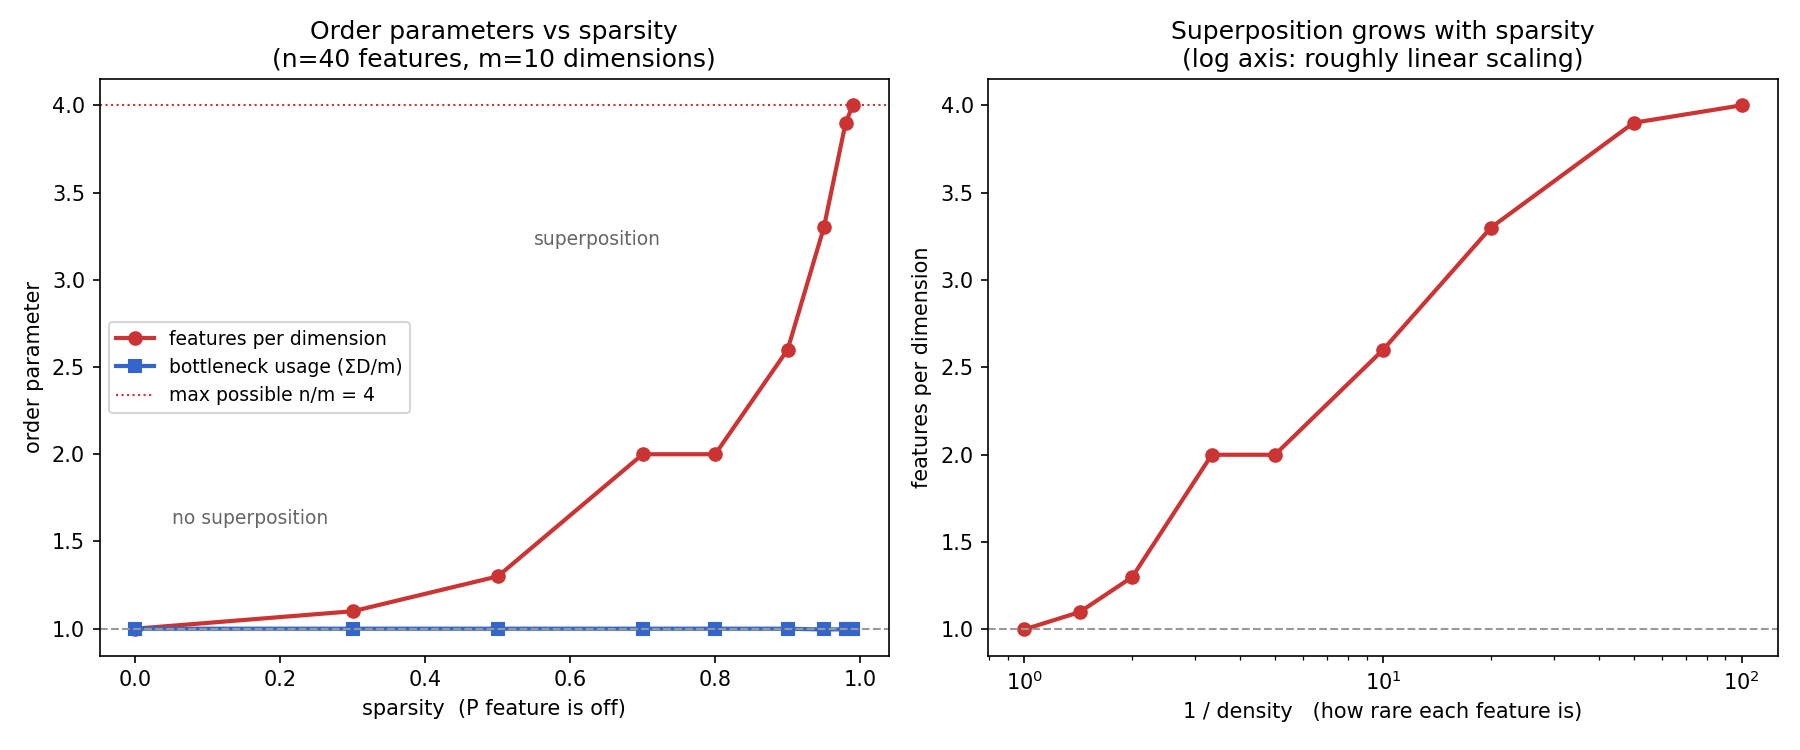
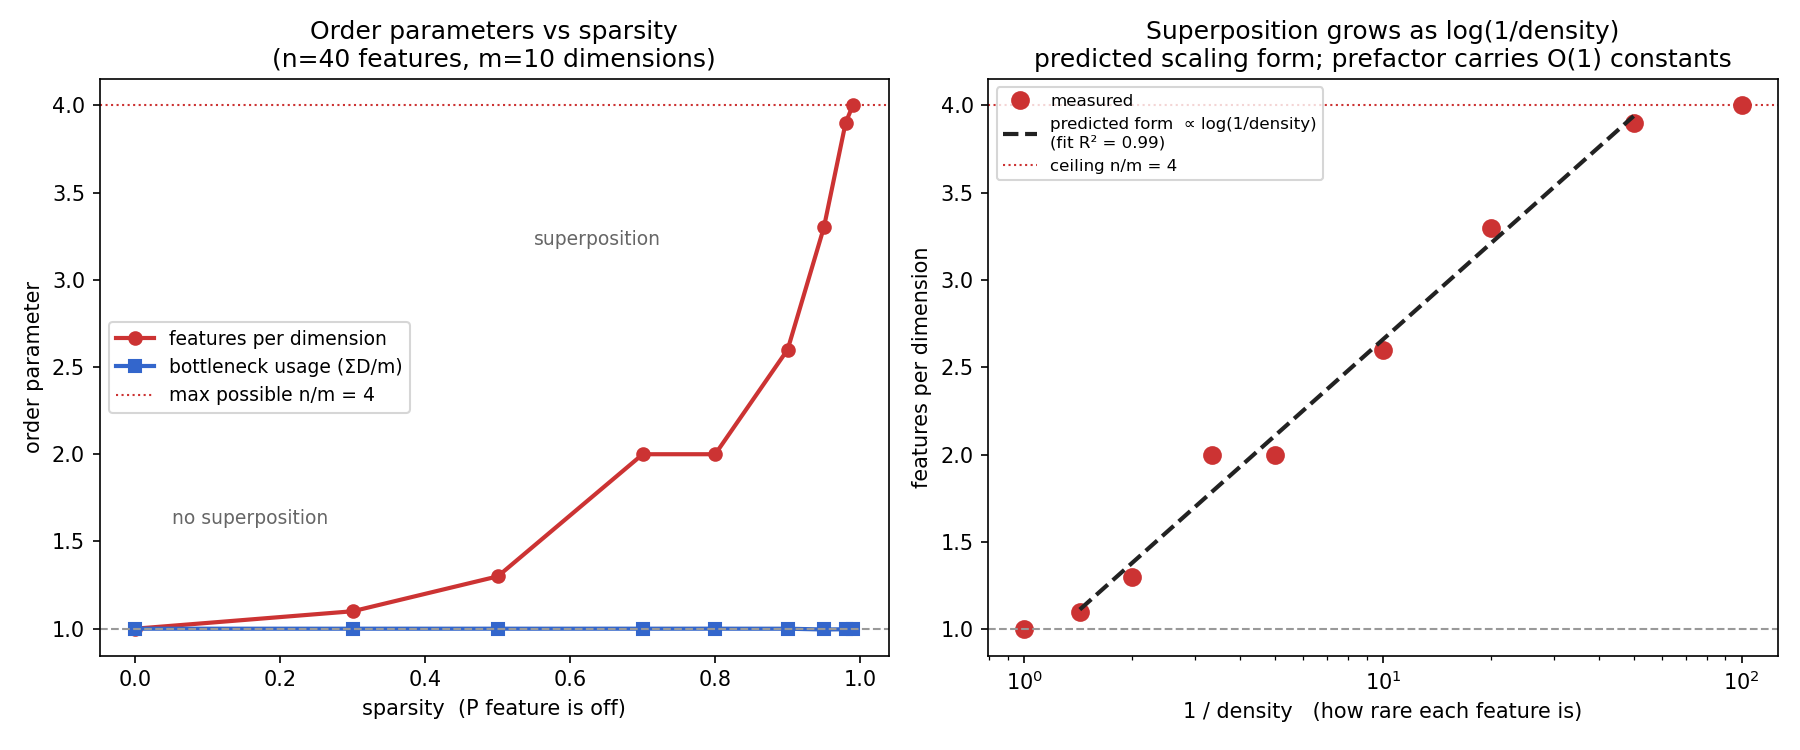
Restructure README, add math derivations and analytic scaling overlay
- Lead with paper credit (Elhage et al. 2022) and an explicit scope
- Move motivation ahead of the math; dedupe the physics-lens framing
- Add formal model/loss equations and order-parameter definitions
- Add Appendix: polygon identities, phase-boundary and log-linear
  derivations
- Calibrate originality claims to credit the paper's phase-change framing
- Overlay the predicted log-linear scaling on the phase diagram (R^2=0.99)

diff --git a/experiments/02_phase_diagram.py b/experiments/02_phase_diagram.py
@@ -96,12 +96,43 @@ def main() -> None:
         "superposition", xy=(0.9, 3.0), xytext=(0.55, 3.2), fontsize=9, color="0.4"
     )
 
-    ax2.plot(1.0 / density, feat_per_dim, "o-", color="#c33", lw=2)
+    # Analytic prediction: a feature earns a (superposed) slot once its importance
+    # clears a threshold that shrinks with density. With geometric importance decay
+    # this makes the stored-feature count grow LINEARLY IN log(1/density). We test
+    # that predicted *form*; its slope carries O(1) constants we do not fix.
+    fpd_arr = np.array(feat_per_dim)
+    inv_density = 1.0 / density
+    x = np.log(inv_density)
+    ceiling = N_FEATURES / N_HIDDEN
+    rising = (fpd_arr > 1.05) & (fpd_arr < ceiling - 0.05)  # the superposition regime
+
+    ax2.plot(inv_density, fpd_arr, "o", color="#c33", ms=8, label="measured")
+    if rising.sum() >= 2:
+        slope, intercept = np.polyfit(x[rising], fpd_arr[rising], 1)
+        pred = slope * x[rising] + intercept
+        ss_res = float(np.sum((fpd_arr[rising] - pred) ** 2))
+        ss_tot = float(np.sum((fpd_arr[rising] - fpd_arr[rising].mean()) ** 2))
+        r2 = 1 - ss_res / ss_tot if ss_tot > 0 else float("nan")
+        xline = np.linspace(x[rising].min(), x[rising].max(), 50)
+        ax2.plot(
+            np.exp(xline), slope * xline + intercept, "--", color="#222", lw=2,
+            label=f"predicted form  ∝ log(1/density)\n(fit R² = {r2:.2f})",
+        )
+        slope_theory = 1.0 / (N_HIDDEN * np.log(1.0 / IMPORTANCE))
+        log(
+            f"right-panel: fitted slope={slope:.3f}/e-fold (R²={r2:.3f}); "
+            f"crude theory slope={slope_theory:.3f} — same order, O(1) constants unfixed"
+        )
     ax2.set_xscale("log")
+    ax2.axhline(ceiling, ls=":", color="#c33", lw=1, label="ceiling n/m = 4")
+    ax2.axhline(1.0, ls="--", color="0.6", lw=1)
     ax2.set_xlabel("1 / density   (how rare each feature is)")
     ax2.set_ylabel("features per dimension")
-    ax2.set_title("Superposition grows with sparsity\n(log axis: roughly linear scaling)")
-    ax2.axhline(1.0, ls="--", color="0.6", lw=1)
+    ax2.set_title(
+        "Superposition grows as log(1/density)\n"
+        "predicted scaling form; prefactor carries O(1) constants"
+    )
+    ax2.legend(fontsize=8, loc="upper left")
 
     fig.tight_layout()
     out = figure_path("02_phase_diagram.png")

diff --git a/README.md b/README.md
@@ -1,12 +1,25 @@
 # A Toy Model of Superposition — a statistical-physics view
 
-**How can a neural network remember more things than it has room for? It cheats — the same way atoms, magnets, and packed spheres do.**
+**How can a neural network remember more things (features) than it has room (neurons, dimensions) for? By superposition - the same way packed spheres do.**
 
 This repository builds the smallest neural network that exhibits *superposition*, reproduces the key results from scratch, and then analyses them with the tools of statistical physics: order parameters, phase transitions, and energy minimisation. Everything runs on a laptop CPU in a few minutes.
 
+### Based on Anthropic's "Toy Models of Superposition"
+
+Everything here is built on **Elhage et al. (2022), *Toy Models of Superposition*** (Transformer Circuits Thread, <https://transformer-circuits.pub/2022/toy_model/index.html>). The model, the feature-dimensionality metric, the quantized polytope geometry, and the phase-change picture all originate in that work. This repository is an independent reimplementation of its core, re-examined through a statistical-mechanics lens.
+
+### Scope
+
+A compact, self-contained reproduction of the paper's *core* results plus an explicit statistical-physics analysis — deliberately narrow, not a full replication.
+
+- **Reproduced from scratch** — the ReLU output model; the emergence of superposition with sparsity ($n=5$, $m=2 \to$ pentagon); the feature-dimensionality metric and its quantized values; a sparsity-driven phase diagram.
+- **Added, extending the paper's own framing** — an explicit packing/frustration *energy* whose minimum the trained network attains exactly (a Thomson-problem reading of the geometry), and an order-parameter presentation of the transition with a derived scaling form (Section 5, Appendix).
+- **Out of scope** — results that are in the paper but not attempted here: the linear-model contrast, computation-in-superposition, correlated/anti-correlated features, higher-dimensional polytopes, learning dynamics, and the connection to real trained networks.
+
+
 ---
 
-## 1. The one-paragraph version (no background assumed)
+## 1. Abstract
 
 A neural network stores information inside a fixed number of internal "slots" (think of them as the axes of a coordinate system). Common sense says it can store at most one piece of information per slot. **Superposition** is the surprising trick where a network stores *many more* pieces of information than it has slots, by laying them down as *overlapping* directions that share the slots. This works only because the information is **sparse** — most pieces are "silent" at any given moment, so the overlaps rarely cause confusion. Below we watch a network discover this trick on its own, and we show that the shapes it settles into are exactly the shapes a physicist would predict from an energy-minimization argument.
 
@@ -19,7 +32,13 @@ A neural network stores information inside a fixed number of internal "slots" (t
 
 ---
 
-## 2. Why this is really a physics problem
+## 2. Motivation — why superposition is worth understanding
+
+Modern language models almost certainly rely on superposition heavily: they represent far more concepts than they have neurons. That makes it a central obstacle for **interpretability** (the effort to understand what a network has actually learned), because a single neuron ends up entangled in many unrelated concepts. A toy system small enough to solve completely is the natural place to build intuition before tackling it in real networks.
+
+---
+
+## 3. Why this is really a physics problem
 
 If you must place *n* feature directions in only *m* dimensions, they cannot all be mutually perpendicular — there isn't enough room. So they interfere. Each pair of features that points in similar directions pays a penalty (they get confused for one another). The network wants to arrange the directions to make the *total* penalty as small as possible.
 
@@ -30,28 +49,35 @@ That is a **frustration problem**, and physicists have studied its cousins for o
 
 And because we have a control knob (sparsity), we can ask the question at the heart of statistical mechanics: **does the system change phase as we turn the knob?** It does — sharply — and the ordered phases are regular polygons.
 
-This framing is the contribution of this repo on top of the original result: superposition is a *packing transition*, and the language of order parameters and phase diagrams describes it cleanly.
+This is home territory for a statistical physicist — frustration, packing, and phase transitions are everyday tools there — and the rest of this repository applies them to superposition directly.
+
+The original paper already thinks this way — it has a section on *phase changes* and discusses the geometry as uniform polytopes / packing. What this repo adds is to make that framing fully explicit and quantitative: a single order parameter swept across a control parameter, and a direct measurement that the learned geometry minimizes a packing energy (Section 5).
 
 ---
 
-## 3. The model
+## 4. The model
 
-The network is a deliberately minimal **autoencoder** (a network trained to copy its input to its output through a narrow bottleneck):
+The network is a deliberately minimal **autoencoder** (a network trained to copy its input to its output through a narrow bottleneck). It compresses $n$ features into $m < n$ dimensions and tries to reconstruct them:
 
-```
-h  = W x              compress n features into m < n dimensions
-x' = ReLU(Wᵀ h + b)   reconstruct the n features
-```
+$$h = W x \in \mathbb{R}^{m}, \qquad \hat{x} = \mathrm{ReLU}\!\left(W^{\top} h + b\right) = \mathrm{ReLU}\!\left(W^{\top} W x + b\right).$$
 
-There is a single weight matrix `W` of shape `(m, n)`. **Column *i* of `W` is the direction the network uses to store feature *i*** — call it that feature's representation vector. `ReLU` (Rectified Linear Unit) is the function `max(0, ·)`; it zeroes out negatives and is what lets the network suppress the small interference from overlapping features.
+Here $W \in \mathbb{R}^{m \times n}$ is a single weight matrix, $b \in \mathbb{R}^{n}$ a bias, and $\mathrm{ReLU}(z) = \max(0, z)$ applied elementwise. **Column $i$ of $W$, written $W_i \in \mathbb{R}^{m}$, is the direction the network uses to store feature $i$** — its *representation vector*. The ReLU is what lets the network clip away the small interference from overlapping features.
 
-We train on synthetic data: each example is a vector of *n* features, each independently off with probability = sparsity, and drawn from `[0,1)` when on. The model never sees a fixed dataset — it learns the *statistics* of the sparse world. The loss is the (importance-weighted) squared reconstruction error.
+**The data (the sparse world).** Each example $x \in \mathbb{R}^{n}$ has independent features; feature $i$ is off with probability $S$ (the sparsity) and otherwise uniform on $[0,1)$:
+
+$$x_i = \begin{cases} 0 & \text{with probability } S, \\ u_i,\ \ u_i \sim \mathcal{U}[0,1) & \text{with probability } 1-S. \end{cases}$$
+
+We call $p \equiv 1 - S$ the **density** (the probability a feature is on). The model never sees a fixed dataset — it learns the *statistics* of this world.
+
+**The loss.** An importance-weighted mean squared reconstruction error, with optional per-feature importances $I_i$ (we use a geometric decay $I_i = r^{\,i-1}$, or $r=1$ for uniform):
+
+$$L = \mathbb{E}_{x}\left[\, \sum_{i=1}^{n} I_i \,\bigl(x_i - \hat{x}_i\bigr)^2 \right].$$
 
 The full engine is ~200 lines in [`src/superposition/`](src/superposition).
 
 ---
 
-## 4. Results
+## 5. Results
 
 ### Experiment 1 — superposition emerges as the world gets sparser
 
@@ -77,7 +103,9 @@ Now a bigger model (**n = 40 features, m = 10 dimensions**). We pick an **order 
 
 The network sits in a **no-superposition phase** (features-per-dimension ≈ 1) in the dense world, then transitions into a **superposition phase** as the world gets sparse, packing several features into every dimension. This is structurally identical to a magnet ordering as temperature drops: an order parameter responding to a control parameter, with a recognisable transition region.
 
-### Experiment 3 — the geometry is quantised, and it solves a packing problem
+**Theory vs. measurement (right panel).** A simple argument predicts the *shape* of this curve. A feature is worth storing (in superposition) once its importance clears a threshold that shrinks as the world gets sparser — because the cost of overlapping two features is paid only when they fire *together*, a probability that falls like density². Since this model gives features geometrically decaying importance, the number that clear the threshold grows **linearly in log(1/density)**. The data follow that predicted form closely (R² ≈ 0.99). What the argument does *not* fix is the slope: it depends on O(1) constants (the exact collision penalty) that we do not compute, so the line is the predicted functional form with the prefactor measured, not a parameter-free fit. (The matching parameter-free statement is for the minimal *n=2, m=1* model, where the no-superposition → superposition boundary can be derived exactly to sit at the dense limit.)
+
+### Experiment 3 — the geometry is quantized, and it solves a packing problem
 
 `python experiments/03_feature_geometry.py`
 
@@ -85,29 +113,34 @@ Back to the n = 5, m = 2 model, sweeping sparsity finely.
 
 ![Feature geometry and packing](figures/03_feature_geometry.png)
 
-**(A) Quantised geometry.** The dimensionality of a feature does not drift smoothly — it **locks onto a discrete ladder** of values, each one corresponding to a specific regular shape:
+**(A) Quantised geometry.** To quantify "how many dimensions a feature occupies" we use the **feature dimensionality** of Elhage et al. (with $\hat{W}_i = W_i / \lVert W_i \rVert$):
 
-| Dimensionality `Dᵢ` | Shape the features form |
-|---|---|
-| `1`   | a feature alone on its own axis |
-| `1/2` | two features back-to-back (a pair) |
-| `2/5` | five features at 72° (a pentagon) |
+$$D_i = \frac{\lVert W_i \rVert^2}{\sum_{j=1}^{n} \bigl(\hat{W}_i \cdot W_j\bigr)^2}.$$
 
-The flat plateaus separated by jumps are the signature of distinct **geometric phases** — exactly like discrete energy levels or magnetisation plateaus in a physical system. (The `2/3` triangle line is drawn for reference; this particular model jumps past it.)
+The numerator measures how strongly feature $i$ is represented; the denominator measures how much it shares its directions with all features (including itself). It satisfies $0 \le D_i$ and $\sum_i D_i \le m$ — the network has only $m$ dimensions to hand out. For $k$ unit vectors arranged as a **regular polygon** in 2D ($m=2$), every pairwise angle is a multiple of $2\pi/k$ and the denominator collapses to a clean value (derived in the Appendix), giving
 
-**(B) A solved packing problem.** At high sparsity the five features form a regular pentagon. We define a **frustration energy** — the total squared overlap between feature directions, the network's analogue of electrostatic repulsion — and compare the trained network to the ideal pentagon:
+$$D_i = \frac{2}{k}.$$
+
+So the dimensionality does not drift smoothly — it **locks onto a discrete ladder** $2/k$, each value a specific shape:
+
+| $D_i$ | $k$ | Shape the features form |
+|---|---|---|
+| $1$   | 1 | a feature alone on its own axis |
+| $2/3$ | 3 | three features at 120° (a triangle) |
+| $1/2$ | 4 | two features back-to-back (a pair) |
+| $2/5$ | 5 | five features at 72° (a pentagon) |
+
+The flat plateaus separated by jumps are the signature of distinct **geometric phases** — like discrete energy levels in a physical system. (The $2/3$ line is drawn for reference; this particular model jumps past it.)
+
+**(B) A solved packing problem.** We define a **frustration energy** — the total squared overlap between *unit* feature directions, the network's analogue of electrostatic repulsion:
+
+$$E(W) = \sum_{i<j} \bigl(\hat{W}_i \cdot \hat{W}_j\bigr)^2.$$
+
+For $k$ unit vectors equally spaced on the circle, this has the closed form $E_k = \tfrac{1}{4}k(k-2)$ for $k \ge 3$ (derived in the Appendix). For the pentagon, $E_5 = \tfrac{1}{4}\cdot 5 \cdot 3 = 3.75$. Comparing the trained network to this ideal:
 
 > **learned energy = 3.750, ideal regular-pentagon energy = 3.750** — they match to numerical precision.
 
-The network, simply by minimizing reconstruction error, has independently found the minimum-energy packing — the same answer the Thomson problem gives for 5 points on a circle.
-
----
-
-## 5. Why this matters (and why I built it)
-
-Modern language models almost certainly use superposition heavily: they represent vastly more concepts than they have neurons. That is a central obstacle for **interpretability** — the effort to understand what a network has actually learned — because a single neuron ends up participating in many unrelated concepts. Understanding superposition in a setting we can fully solve is a prerequisite for understanding it where it matters.
-
-My background is in soft-matter and statistical-mechanics physics, where frustration, packing, and phase transitions are everyday tools. This project is a demonstration that those tools transfer directly: superposition is a packing transition, and it yields to the same analysis I would apply to colloids on a sphere or spins on a lattice.
+The network, simply by minimizing reconstruction error, has independently found the minimum-energy packing — the same flavour of answer the Thomson problem gives for points repelling on a sphere.
 
 ---
 
@@ -138,11 +171,55 @@ experiments/   three scripts, each producing one figure above
 tests/         fast checks of the engine and metrics
 ```
 
-## 8. References
+## 8. Appendix — definitions and derivations
+
+### A. The regular-polygon identities
+
+For $k$ unit vectors equally spaced on the circle, write $\hat{W}_a = (\cos\theta_a, \sin\theta_a)$ with $\theta_a = 2\pi a / k$, so that $\hat{W}_a \cdot \hat{W}_b = \cos\!\big(\tfrac{2\pi (a-b)}{k}\big)$. The one fact we need is that for $k \ge 3$ the cross term vanishes and
+
+$$\sum_{d=0}^{k-1} \cos^2\!\Big(\tfrac{2\pi d}{k}\Big) = \frac{k}{2}.$$
+
+**Dimensionality** $D_i = 2/k$ (used in Section 5A). With unit vectors $\lVert W_i \rVert = 1$, the denominator of $D_i$ is exactly the sum above, so
+
+$$\sum_{j} \bigl(\hat{W}_i \cdot W_j\bigr)^2 = \sum_{d=0}^{k-1} \cos^2\!\Big(\tfrac{2\pi d}{k}\Big) = \frac{k}{2} \quad\Longrightarrow\quad D_i = \frac{1}{k/2} = \frac{2}{k}.$$
+
+**Frustration energy** $E_k = \tfrac14 k(k-2)$ (used in Section 5B). Summing over unordered pairs, with $k$ ordered pairs for each nonzero difference $d$,
+
+$$E_k = \sum_{a<b} \cos^2\!\Big(\tfrac{2\pi (a-b)}{k}\Big) = \frac{k}{2}\sum_{d=1}^{k-1}\cos^2\!\Big(\tfrac{2\pi d}{k}\Big) = \frac{k}{2}\Big(\frac{k}{2} - 1\Big) = \frac{k(k-2)}{4}.$$
+
+For the pentagon $E_5 = \tfrac14 \cdot 5 \cdot 3 = 3.75$ (an antipodal pair, $k=2$, gives $E = 1$ separately).
+
+### B. The phase boundary (minimal model $n=2$, $m=1$)
+
+One feature can always be stored perfectly in a single dimension; the question is whether a *second* feature is worth adding. Write $W = (w_1, w_2)$ so $h = w_1 x_1 + w_2 x_2$, and compare two strategies.
+
+**Dedicate** ($W = (1, 0)$, $b = 0$): then $\hat{x}_1 = \mathrm{ReLU}(x_1) = x_1$ and $\hat{x}_2 = 0$, so only feature 2's error survives:
+
+$$L_{\text{ded}} = I\,\mathbb{E}[x_2^2] = I\,p \int_0^1 u^2\,du = \frac{I p}{3}.$$
+
+**Superpose antipodally** ($W = (1, -1)$, $b = 0$): then $h = x_1 - x_2$, giving $\hat{x}_1 = \mathrm{ReLU}(x_1 - x_2)$ and $\hat{x}_2 = \mathrm{ReLU}(x_2 - x_1)$. If only one feature is on, reconstruction is *exact* (the ReLU clips the rest); error appears **only when both fire** (probability $p^2$), and then each feature's error equals $\min(x_1, x_2)$. With $\mathbb{E}[\min(u,v)^2] = 2\int_0^1\!\int_0^v u^2\,du\,dv = \tfrac16$ over the unit square,
+
+$$L_{\text{sup}} = I\,p^2 \cdot 2\,\mathbb{E}[\min(u,v)^2] = I\,p^2 \cdot 2 \cdot \tfrac16 = \frac{I p^2}{3}.$$
+
+**Boundary.** Setting $L_{\text{sup}} = L_{\text{ded}}$ gives $\tfrac{I p^2}{3} = \tfrac{I p}{3}$, i.e. $p = 1$. For every $p < 1$ (any sparsity at all) we have $L_{\text{sup}} < L_{\text{ded}}$: **superposition wins, and the no-superposition phase survives only at the dense point $p = 1$.** The mechanism is the competing scaling
+
+$$\underbrace{\text{benefit} \;\propto\; p}_{\text{feature is on}} \qquad \text{vs.} \qquad \underbrace{\text{interference cost} \;\propto\; p^2}_{\text{two features collide}},$$
+
+so the cost-to-benefit ratio $\propto p \to 0$ as the world gets sparse.
+
+### C. From the boundary to the log-linear count (Exp 2)
+
+In the full model ($n > m$), adding feature $k$ in superposition inflicts interference on the already-stored, more important features. The marginal cost scales as $c\,p^2 \sum_{j<k} I_j$ against a marginal benefit $\tfrac{p}{3} I_k$, where $c = O(1)$ is an undetermined collision constant. Storing feature $k$ is worthwhile while $\tfrac{p}{3} I_k \gtrsim c\,p^2 \sum_{j<k} I_j$. With geometric importance $I_k = r^{\,k-1}$ and $\sum_{j<k} I_j \to \tfrac{1}{1-r}$,
+
+$$r^{\,k-1} \;\gtrsim\; \frac{3 c\,p}{1-r} \quad\Longrightarrow\quad k \;\lesssim\; k_0 + \frac{\ln(1/p)}{\ln(1/r)}.$$
+
+So **features-per-dimension $k/m$ grows linearly in $\ln(1/\text{density})$**, with slope $\sim \tfrac{1}{m \ln(1/r)}$ up to the constant $c$. Exp 2 confirms this *form* ($R^2 = 0.99$); the unknown $c$ is exactly why the measured slope ($0.79$ per e-fold) and this crude estimate ($1.95$) differ by an $O(1)$ factor.
+
+## 9. References
 
 - Elhage et al., **"Toy Models of Superposition"**, Anthropic / Transformer Circuits Thread, 2022. <https://transformer-circuits.pub/2022/toy_model/index.html>
 - J. J. Thomson (1904) and the long line of work on minimum-energy point configurations on the sphere (the Thomson / Tammes problems).
 
 ---
 
-*Built as a research demonstration. The physics framing — order parameters, the phase diagram, and the explicit Thomson-problem connection — is my own addition on top of the reproduced toy model.*
+*Built as a research demonstration. The model, the dimensionality metric, the quantized geometry, and the phase-change idea are all from the original paper — this repo reproduces them from scratch. My additions are the explicit packing-energy (Thomson-style) measurement and the order-parameter presentation of the phase diagram, which sharpen the paper's own framing rather than replace it.*